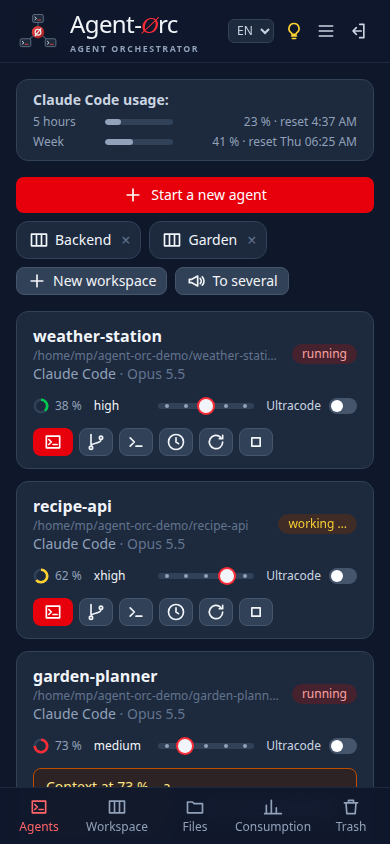
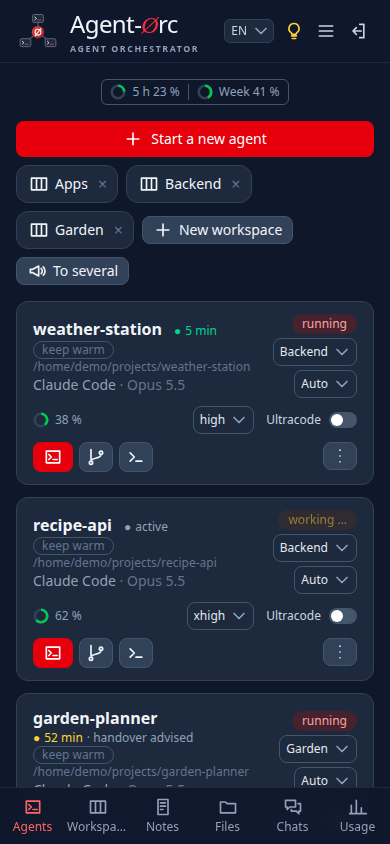
docs: neue Screenshots, Antworten-Ansicht im README
Alle Bilder vom heutigen Stand (Cache-Anzeige, Warmhalten, Rechte-Modus
und Arbeitsfläche je Karte, Antworten-Ansicht mit „Kurz | Alles“ und
dem Kreisel am Mikrofon), aus einer abgeschotteten Demo mit erfundenen
Agenten. Neu: ein Bild der Antworten-Ansicht im Abschnitt Antworten.

Claude-Session: https://claude.ai/code/session_01Ru1uyddeB3dFvSjkha1BkD

diff --git a/README.md b/README.md
@@ -82,6 +82,11 @@ that run Agent-Orc can be shown in the same app, through an SSH tunnel ([Several
 </p>
 
 **Answers**
+
+<p align="center">
+  <img src="docs/screenshots/answers-en.png" alt="Answers view of two agents: their answers with tables and the paragraph for listening, unread ones marked red, the spinner at the microphone while one is working" width="860">
+</p>
+
 - A switch in every terminal shows only what the agent answered (its last text per request, on
   request every text) instead of the terminal with its thoughts and diffs; what you typed
   during an answer and its pictures are shown too.

diff --git a/README.de.md b/README.de.md
@@ -88,6 +88,11 @@ einen SSH-Tunnel ([Mehrere Rechner](#mehrere-rechner)).
 </p>
 
 **Antworten**
+
+<p align="center">
+  <img src="docs/screenshots/answers-de.png" alt="Antworten-Ansicht zweier Agenten: ihre Antworten mit Tabellen und Hörabsatz, ungelesene rot markiert, der Kreisel am Mikrofon, solange einer arbeitet" width="860">
+</p>
+
 - Ein Umschalter in jedem Terminal zeigt nur das, was der Agent geantwortet hat (pro Anfrage
   der letzte Text, auf Wunsch jeder), statt des Terminals mit Gedanken und Diffs; was du
   während einer Antwort getippt hast, und seine Bilder erscheinen auch.
